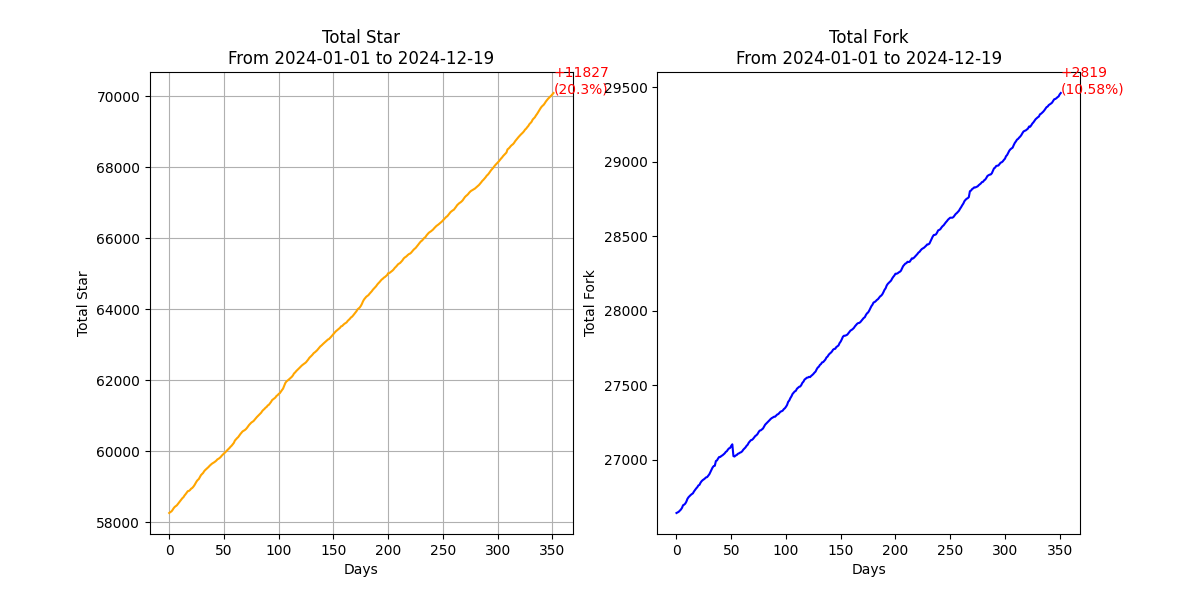
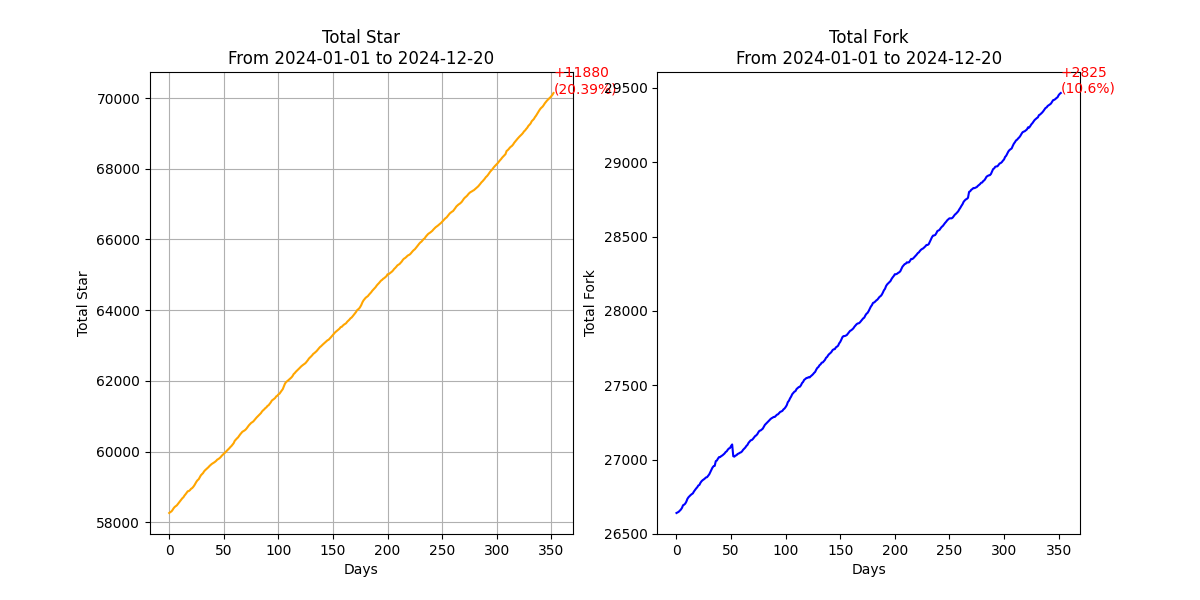
Update Espressif Systems Github Star Rank - 2024-12-20

diff --git a/rank_history/esp_rank_2024-12-19.md b/rank_history/esp_rank_2024-12-19.md
@@ -1,6 +1,6 @@
-# Espressif Systems Github Star Rank 2024-12-20
+# Espressif Systems Github Star Rank 2024-12-19
 
-## Total Star 🌟: 70183, Total Fork 🌳: 29479
+## Total Star 🌟: 70143, Total Fork 🌳: 29466
 
 [![Update Espressif Systems Github Star Rank](https://github.com/leeebo/espressif_star_counter/actions/workflows/update_rank.yml/badge.svg)](https://github.com/leeebo/espressif_star_counter/actions/workflows/update_rank.yml)
 
@@ -8,38 +8,38 @@
 
 | Repository | Stars | Forks | Description |
 |------------|-------|-------|-------------|
-| [esp-idf](https://github.com/espressif/esp-idf) | 14024 | 7353 | Espressif IoT Development Framework. Official development framework for Espressif SoCs. |
-| [arduino-esp32](https://github.com/espressif/arduino-esp32) | 13881 | 7455 | Arduino core for the ESP32 |
-| [esptool](https://github.com/espressif/esptool) | 5644 | 1388 | Espressif SoC serial bootloader utility |
-| [ESP8266_RTOS_SDK](https://github.com/espressif/ESP8266_RTOS_SDK) | 3362 | 1565 | Latest ESP8266 SDK based on FreeRTOS, esp-idf style. |
-| [esp-iot-solution](https://github.com/espressif/esp-iot-solution) | 2013 | 796 | Espressif IoT Library. IoT Device Drivers, Documentations and Solutions. |
-| [esp32-camera](https://github.com/espressif/esp32-camera) | 1973 | 650 | None |
-| [esp-who](https://github.com/espressif/esp-who) | 1729 | 469 | Face detection and recognition framework |
+| [esp-idf](https://github.com/espressif/esp-idf) | 14015 | 7350 | Espressif IoT Development Framework. Official development framework for Espressif SoCs. |
+| [arduino-esp32](https://github.com/espressif/arduino-esp32) | 13876 | 7454 | Arduino core for the ESP32 |
+| [esptool](https://github.com/espressif/esptool) | 5642 | 1388 | Espressif SoC serial bootloader utility |
+| [ESP8266_RTOS_SDK](https://github.com/espressif/ESP8266_RTOS_SDK) | 3361 | 1565 | Latest ESP8266 SDK based on FreeRTOS, esp-idf style. |
+| [esp-iot-solution](https://github.com/espressif/esp-iot-solution) | 2014 | 795 | Espressif IoT Library. IoT Device Drivers, Documentations and Solutions. |
+| [esp32-camera](https://github.com/espressif/esp32-camera) | 1971 | 650 | None |
+| [esp-who](https://github.com/espressif/esp-who) | 1727 | 469 | Face detection and recognition framework |
 | [esp-adf](https://github.com/espressif/esp-adf) | 1579 | 696 | Espressif Audio Development Framework |
 | [vscode-esp-idf-extension](https://github.com/espressif/vscode-esp-idf-extension) | 1097 | 309 | Visual Studio Code extension for ESP-IDF projects |
 | [ESP8266_NONOS_SDK](https://github.com/espressif/ESP8266_NONOS_SDK) | 932 | 536 | ESP8266 nonOS SDK |
-| [esp-at](https://github.com/espressif/esp-at) | 931 | 844 | AT application for ESP32/ESP32-C2/ESP32-C3/ESP32-C6/ESP8266 |
-| [esp-drone](https://github.com/espressif/esp-drone) | 856 | 246 | Mini Drone/Quadcopter Firmware for ESP32 and ESP32-S Series SoCs. |
+| [esp-at](https://github.com/espressif/esp-at) | 930 | 843 | AT application for ESP32/ESP32-C2/ESP32-C3/ESP32-C6/ESP8266 |
+| [esp-drone](https://github.com/espressif/esp-drone) | 853 | 246 | Mini Drone/Quadcopter Firmware for ESP32 and ESP32-S Series SoCs. |
 | [esp-box](https://github.com/espressif/esp-box) | 833 | 192 | The ESP-BOX is a new generation AIoT development platform released by Espressif Systems. |
-| [kicad-libraries](https://github.com/espressif/kicad-libraries) | 794 | 111 | KiCad libraries for Espressif SoCs, modules, and DevKits. |
+| [kicad-libraries](https://github.com/espressif/kicad-libraries) | 793 | 111 | KiCad libraries for Espressif SoCs, modules, and DevKits. |
 | [esp-mdf](https://github.com/espressif/esp-mdf) | 782 | 253 | Espressif Mesh Development Framework, limited maintain, recommend to use https://github.com/espressif/esp-mesh-lite |
 | [ESP8266_MP3_DECODER](https://github.com/espressif/ESP8266_MP3_DECODER) | 745 | 190 | A demo that should be run with ESP8266 Non-OS SDK |
 | [esp-csi](https://github.com/espressif/esp-csi) | 731 | 111 | Applications based on Wi-Fi CSI (Channel state information), such as indoor positioning, human detection |
-| [esp-matter](https://github.com/espressif/esp-matter) | 721 | 165 | Espressif's SDK for Matter |
-| [esp-hosted](https://github.com/espressif/esp-hosted) | 719 | 171 | Hosted Solution (Linux/MCU) with ESP32 (Wi-Fi + BT + BLE) |
+| [esp-matter](https://github.com/espressif/esp-matter) | 720 | 165 | Espressif's SDK for Matter |
+| [esp-hosted](https://github.com/espressif/esp-hosted) | 718 | 171 | Hosted Solution (Linux/MCU) with ESP32 (Wi-Fi + BT + BLE) |
 | [esp-apple-homekit-adk](https://github.com/espressif/esp-apple-homekit-adk) | 625 | 64 | This is a port for Apple's Open Source HomeKit ADK |
 | [esp-mqtt](https://github.com/espressif/esp-mqtt) | 618 | 258 | ESP32 mqtt component |
-| [esp-sr](https://github.com/espressif/esp-sr) | 606 | 108 | Speech recognition |
+| [esp-sr](https://github.com/espressif/esp-sr) | 605 | 108 | Speech recognition |
 | [esp-skainet](https://github.com/espressif/esp-skainet) | 597 | 136 | Espressif intelligent voice assistant |
 | [esp-dl](https://github.com/espressif/esp-dl) | 590 | 124 | Espressif deep-learning library for AIoT applications |
-| [esp-homekit-sdk](https://github.com/espressif/esp-homekit-sdk) | 576 | 109 | None |
+| [esp-homekit-sdk](https://github.com/espressif/esp-homekit-sdk) | 575 | 109 | None |
 | [esp-now](https://github.com/espressif/esp-now) | 558 | 97 | A connectionless Wi-Fi communication protocol |
 | [esp32-nesemu](https://github.com/espressif/esp32-nesemu) | 551 | 173 | Proof-of-concept NES emulator for the ESP32 |
-| [esp-dsp](https://github.com/espressif/esp-dsp) | 495 | 92 | DSP library for ESP-IDF |
-| [esp-rainmaker](https://github.com/espressif/esp-rainmaker) | 473 | 157 | ESP RainMaker Agent for firmware development |
+| [esp-dsp](https://github.com/espressif/esp-dsp) | 494 | 92 | DSP library for ESP-IDF |
+| [esp-rainmaker](https://github.com/espressif/esp-rainmaker) | 472 | 156 | ESP RainMaker Agent for firmware development |
 | [ESP8266_AT](https://github.com/espressif/ESP8266_AT) | 471 | 227 | This project is not maintained, please use https://github.com/espressif/esp-at. |
 | [rust-esp32-example](https://github.com/espressif/rust-esp32-example) | 450 | 36 | Example of Rust integration into an ESP-IDF project, for ESP32 series of chips |
-| [esp-tflite-micro](https://github.com/espressif/esp-tflite-micro) | 405 | 86 | TensorFlow Lite Micro for Espressif Chipsets |
+| [esp-tflite-micro](https://github.com/espressif/esp-tflite-micro) | 403 | 86 | TensorFlow Lite Micro for Espressif Chipsets |
 | [esp-serial-flasher](https://github.com/espressif/esp-serial-flasher) | 396 | 113 | Library for flashing Espressif SoCs from other MCUs. |
 | [esp-dev-kits](https://github.com/espressif/esp-dev-kits) | 376 | 186 | Docs, Schematics, Factory Firmwares for ESP Development Kits |
 | [openocd-esp32](https://github.com/espressif/openocd-esp32) | 365 | 134 | OpenOCD branch with ESP32 JTAG support |
@@ -50,19 +50,19 @@
 | [esptool-js](https://github.com/espressif/esptool-js) | 299 | 111 | Javascript implementation of flasher tool for Espressif chips, running in web browser using WebSerial. |
 | [esp-va-sdk](https://github.com/espressif/esp-va-sdk) | 296 | 83 | Espressif's Voice Assistant SDK: Alexa, Google Voice Assistant, Google DialogFlow |
 | [esp-aws-iot](https://github.com/espressif/esp-aws-iot) | 275 | 166 | AWS IoT SDK for ESP32 based chipsets |
-| [esp-bsp](https://github.com/espressif/esp-bsp) | 213 | 113 | Board support components for Espressif development boards |
+| [esp-bsp](https://github.com/espressif/esp-bsp) | 212 | 112 | Board support components for Espressif development boards |
 | [esp-idf-provisioning-android](https://github.com/espressif/esp-idf-provisioning-android) | 207 | 138 | Android Provisioning application for ESP-IDF Unified provisioning |
-| [esp-protocols](https://github.com/espressif/esp-protocols) | 202 | 136 | Collection of ESP-IDF components related to networking protocols |
+| [esp-protocols](https://github.com/espressif/esp-protocols) | 202 | 135 | Collection of ESP-IDF components related to networking protocols |
 | [esp32-doom](https://github.com/espressif/esp32-doom) | 201 | 39 | A proof-of-concept port of PrBoom to the ESP32. Needs psram hardware. |
 | [ESP31_RTOS_SDK](https://github.com/espressif/ESP31_RTOS_SDK) | 188 | 58 | ESP31B SDK based on FreeRTOS. For ESP32 please see http://github.com/espressif/esp-idf |
 | [esp-zigbee-sdk](https://github.com/espressif/esp-zigbee-sdk) | 183 | 33 | Espressif Zigbee SDK |
 | [esp-jumpstart](https://github.com/espressif/esp-jumpstart) | 179 | 58 | Jumpstart from concept to production |
 | [esp-azure](https://github.com/espressif/esp-azure) | 178 | 93 | SDK to connect ESP8266 and ESP32 to Microsoft Azure IoT services |
-| [esp-iot-bridge](https://github.com/espressif/esp-iot-bridge) | 172 | 54 | A smart bridge to make both ESP and the other MCU or smart device can access the Internet. |
+| [esp-iot-bridge](https://github.com/espressif/esp-iot-bridge) | 171 | 54 | A smart bridge to make both ESP and the other MCU or smart device can access the Internet. |
 | [esp32-wifi-lib](https://github.com/espressif/esp32-wifi-lib) | 167 | 71 | ESP32 WiFi stack precompiled libraries |
-| [esp-gdbstub](https://github.com/espressif/esp-gdbstub) | 163 | 38 | None |
+| [esp-gdbstub](https://github.com/espressif/esp-gdbstub) | 162 | 38 | None |
 | [idf-extra-components](https://github.com/espressif/idf-extra-components) | 156 | 93 | Additional components for ESP-IDF, maintained by Espressif |
-| [esp32-arduino-lib-builder](https://github.com/espressif/esp32-arduino-lib-builder) | 154 | 172 | None |
+| [esp32-arduino-lib-builder](https://github.com/espressif/esp32-arduino-lib-builder) | 153 | 171 | None |
 | [esp-nn](https://github.com/espressif/esp-nn) | 148 | 24 | Optimised Neural Network functions for Espressif chipsets |
 | [esp-google-iot](https://github.com/espressif/esp-google-iot) | 143 | 44 | Google Cloud IoT SDK as an ESP-IDF Component |
 | [esp-idf-provisioning-ios](https://github.com/espressif/esp-idf-provisioning-ios) | 139 | 65 | None |
@@ -76,13 +76,13 @@
 | [idf-installer](https://github.com/espressif/idf-installer) | 104 | 21 | ESP IDF Windows Installer |
 | [pytest-embedded](https://github.com/espressif/pytest-embedded) | 93 | 27 | A pytest plugin that designed for embedded testing |
 | [usb-pids](https://github.com/espressif/usb-pids) | 91 | 140 | Customer-allocated USB PIDs under the Espressif VID |
-| [esp-lwip](https://github.com/espressif/esp-lwip) | 89 | 130 | Fork of lwIP (https://savannah.nongnu.org/projects/lwip/) with ESP-IDF specific patches |
+| [esp-lwip](https://github.com/espressif/esp-lwip) | 88 | 130 | Fork of lwIP (https://savannah.nongnu.org/projects/lwip/) with ESP-IDF specific patches |
 | [esp-wasmachine](https://github.com/espressif/esp-wasmachine) | 82 | 6 | The Machine which can run WASM applications. |
 | [esp-idf-cxx](https://github.com/espressif/esp-idf-cxx) | 81 | 15 | C++ wrapper classes for ESP-IDF components. |
-| [esp-ali-smartliving](https://github.com/espressif/esp-ali-smartliving) | 80 | 35 | 阿里云生活物联网平台 & 天猫精灵 IoT 开放平台 |
+| [esp-ali-smartliving](https://github.com/espressif/esp-ali-smartliving) | 79 | 34 | 阿里云生活物联网平台 & 天猫精灵 IoT 开放平台 |
 | [esp32-bt-lib](https://github.com/espressif/esp32-bt-lib) | 75 | 43 | ESP32 Bluetooth stack (below HCI layer) precompiled libraries |
 | [esp-qcloud](https://github.com/espressif/esp-qcloud) | 72 | 36 | 基于 ESP-IDF 原生开发接入腾讯 IoT Explorer，支持 ESP32/ESP32S2，快速实现腾讯连连控制。 |
-| [esp32c3-direct-boot-example](https://github.com/espressif/esp32c3-direct-boot-example) | 70 | 18 | Example of ESP32-C3 (rev. 3 and later) "direct boot" feature. |
+| [esp32c3-direct-boot-example](https://github.com/espressif/esp32c3-direct-boot-example) | 69 | 18 | Example of ESP32-C3 (rev. 3 and later) "direct boot" feature. |
 | [esp8266-nonos-sample-code](https://github.com/espressif/esp8266-nonos-sample-code) | 66 | 41 | None |
 | [esp-brookesia](https://github.com/espressif/esp-brookesia) | 63 | 10 | ESP-Brookesia is a human-machine interaction development framework designed for AIoT devices. |
 | [esp-adf-libs](https://github.com/espressif/esp-adf-libs) | 62 | 42 | None |
@@ -115,7 +115,7 @@
 | [esp8266-alink-sds](https://github.com/espressif/esp8266-alink-sds) | 27 | 15 | Demo project for alink SDS |
 | [esp-bootloader-plus](https://github.com/espressif/esp-bootloader-plus) | 24 | 7 | An enhanced bootloader to support compression upgrade and diff compression upgrade. |
 | [esp-debug-adapter](https://github.com/espressif/esp-debug-adapter) | 24 | 14 | An implementation of Microsoft Debug Adapter Protocol server which works with GDB. |
-| [esp-idf-monitor](https://github.com/espressif/esp-idf-monitor) | 24 | 9 | None |
+| [esp-idf-monitor](https://github.com/espressif/esp-idf-monitor) | 24 | 8 | None |
 | [esp-docs](https://github.com/espressif/esp-docs) | 22 | 15 | Python based wrapper for Sphinx, intended to simplify and extend Sphinx's functionality to better suit the documentation needs for Espressif's development frameworks |
 | [esp-h264-component](https://github.com/espressif/esp-h264-component) | 21 | 0 | H264 encoder/decoder of espressif |
 | [esp_secure_cert_mgr](https://github.com/espressif/esp_secure_cert_mgr) | 20 | 12 | Espressif Secure Certificate Manager Component |
@@ -169,7 +169,7 @@
 | [midi-workshop](https://github.com/espressif/midi-workshop) | 6 | 1 | Repository with materials for ESP32-S3 USB MIDI workshop in Brno on 2024/05/17 |
 | [.github](https://github.com/espressif/.github) | 5 | 5 | None |
 | [esp-idf-nvs-partition-gen](https://github.com/espressif/esp-idf-nvs-partition-gen) | 5 | 2 | NVS Partition Generator tool |
-| [esp-rainmaker-webhooks](https://github.com/espressif/esp-rainmaker-webhooks) | 5 | 2 | Rainmaker Web hooks Project |
+| [esp-rainmaker-webhooks](https://github.com/espressif/esp-rainmaker-webhooks) | 5 | 1 | Rainmaker Web hooks Project |
 | [esp-win-usb-drivers](https://github.com/espressif/esp-win-usb-drivers) | 5 | 0 | None |
 | [esp32h2-bt-lib](https://github.com/espressif/esp32h2-bt-lib) | 5 | 2 | ESP32-H2 Bluetooth stack (below HCI layer) precompiled libraries |
 | [zephyr-toolchain](https://github.com/espressif/zephyr-toolchain) | 5 | 1 | Toolchain for Espressif chips for use in Zephyr |
